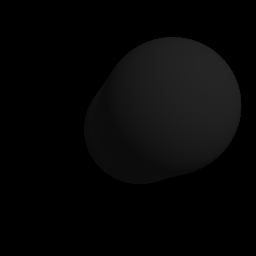
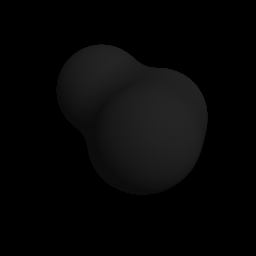
feat: 複数の球へ

Changed region(s): [[0.5312, 0.125, 0.9688, 0.5938], [0.25, 0.1562, 0.5, 0.4062]]

diff --git a/src/bin/train.rs b/src/bin/train.rs
@@ -13,6 +13,8 @@ fn main() {
     type MyBackend = Autodiff<Wgpu>;
     let device = WgpuDevice::default();
 
+    const N: usize = 4;
+
     let width = 256;
     let height = 256;
 
@@ -41,7 +43,7 @@ fn main() {
     let (ray_org_3, ray_dir_3) = create_camera_rays::<MyBackend>(
         width,
         height,
-        [0.0, 2.5, -0.001],
+        [0.0, 2.5, -0.0001],
         [0.0, 0.0, 0.0],
         50.0,
         &device,
@@ -56,18 +58,18 @@ fn main() {
     // --- Model Init ---
     // 初期値: 中央付近に(N=3)(shape [N,3])
     let init_centers =
-        Tensor::<MyBackend, 1>::random([3, 3], Distribution::Uniform(-0.5, 0.5), &device)
-            .reshape([3, 3]);
+        Tensor::<MyBackend, 1>::random([N, 3], Distribution::Uniform(-0.5, 0.5), &device)
+            .reshape([N, 3]);
 
-    let init_logits = Tensor::<MyBackend, 1>::zeros([9], &device).reshape([3, 3]);
+    let init_logits = Tensor::<MyBackend, 1>::zeros([N * 3], &device).reshape([N, 3]);
 
-    let init_radii = Tensor::<MyBackend, 1>::from_floats([-0.5; 3], &device).reshape([3, 1]);
+    let init_radii = Tensor::<MyBackend, 1>::from_floats([-0.5; N], &device).reshape([N, 1]);
 
     let mut model = SceneModel::new(init_centers, init_logits, init_radii);
     let mut optim = AdamConfig::new().init();
 
     println!("Start Optimization (Metaballs)...");
-    let lr = 0.2;
+    let lr = 0.1;
 
     for i in 0..200 {
         let img1 = model.forward(ray_org_1.clone(), ray_dir_1.clone());

diff --git a/src/bin/generate.rs b/src/bin/generate.rs
@@ -37,7 +37,7 @@ fn main() {
     let (ray_org_3, ray_dir_3) = create_camera_rays::<MyBackend>(
         width,
         height,
-        [0.0, 2.5, -0.001],
+        [0.0, 2.5, -0.0001],
         [0.0, 0.0, 0.0],
         50.0,
         &device,
